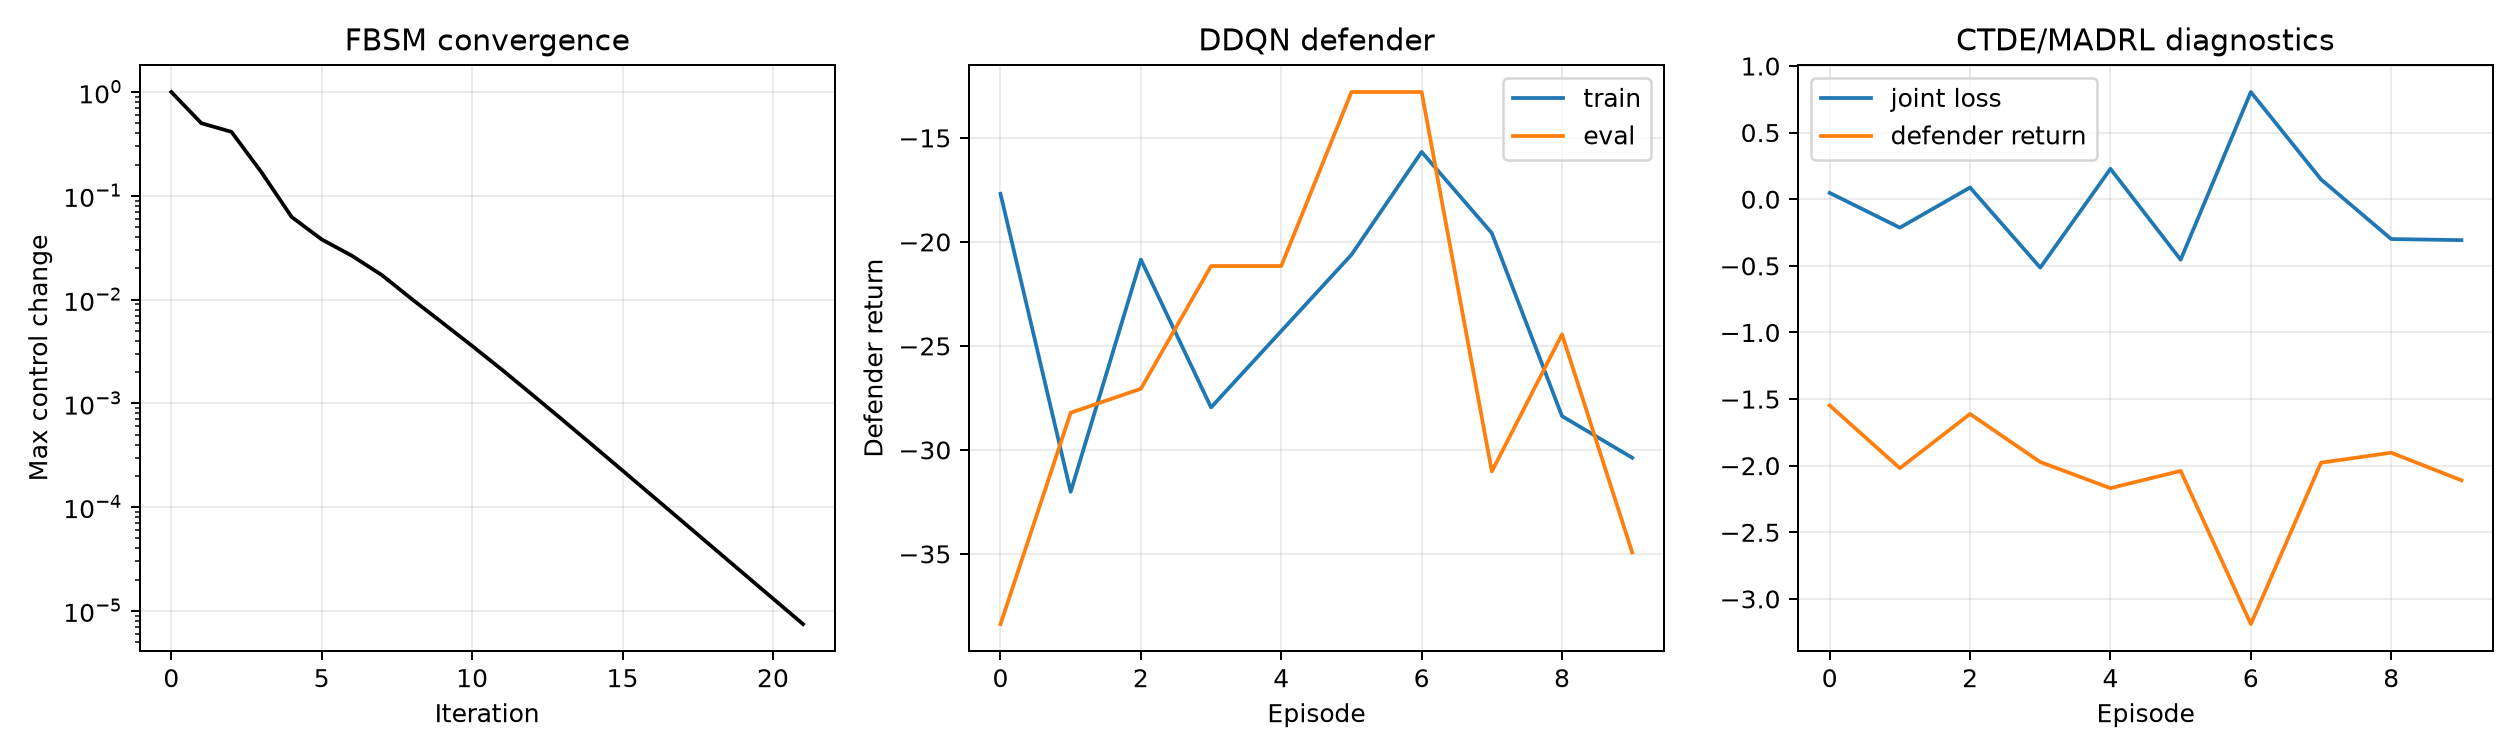
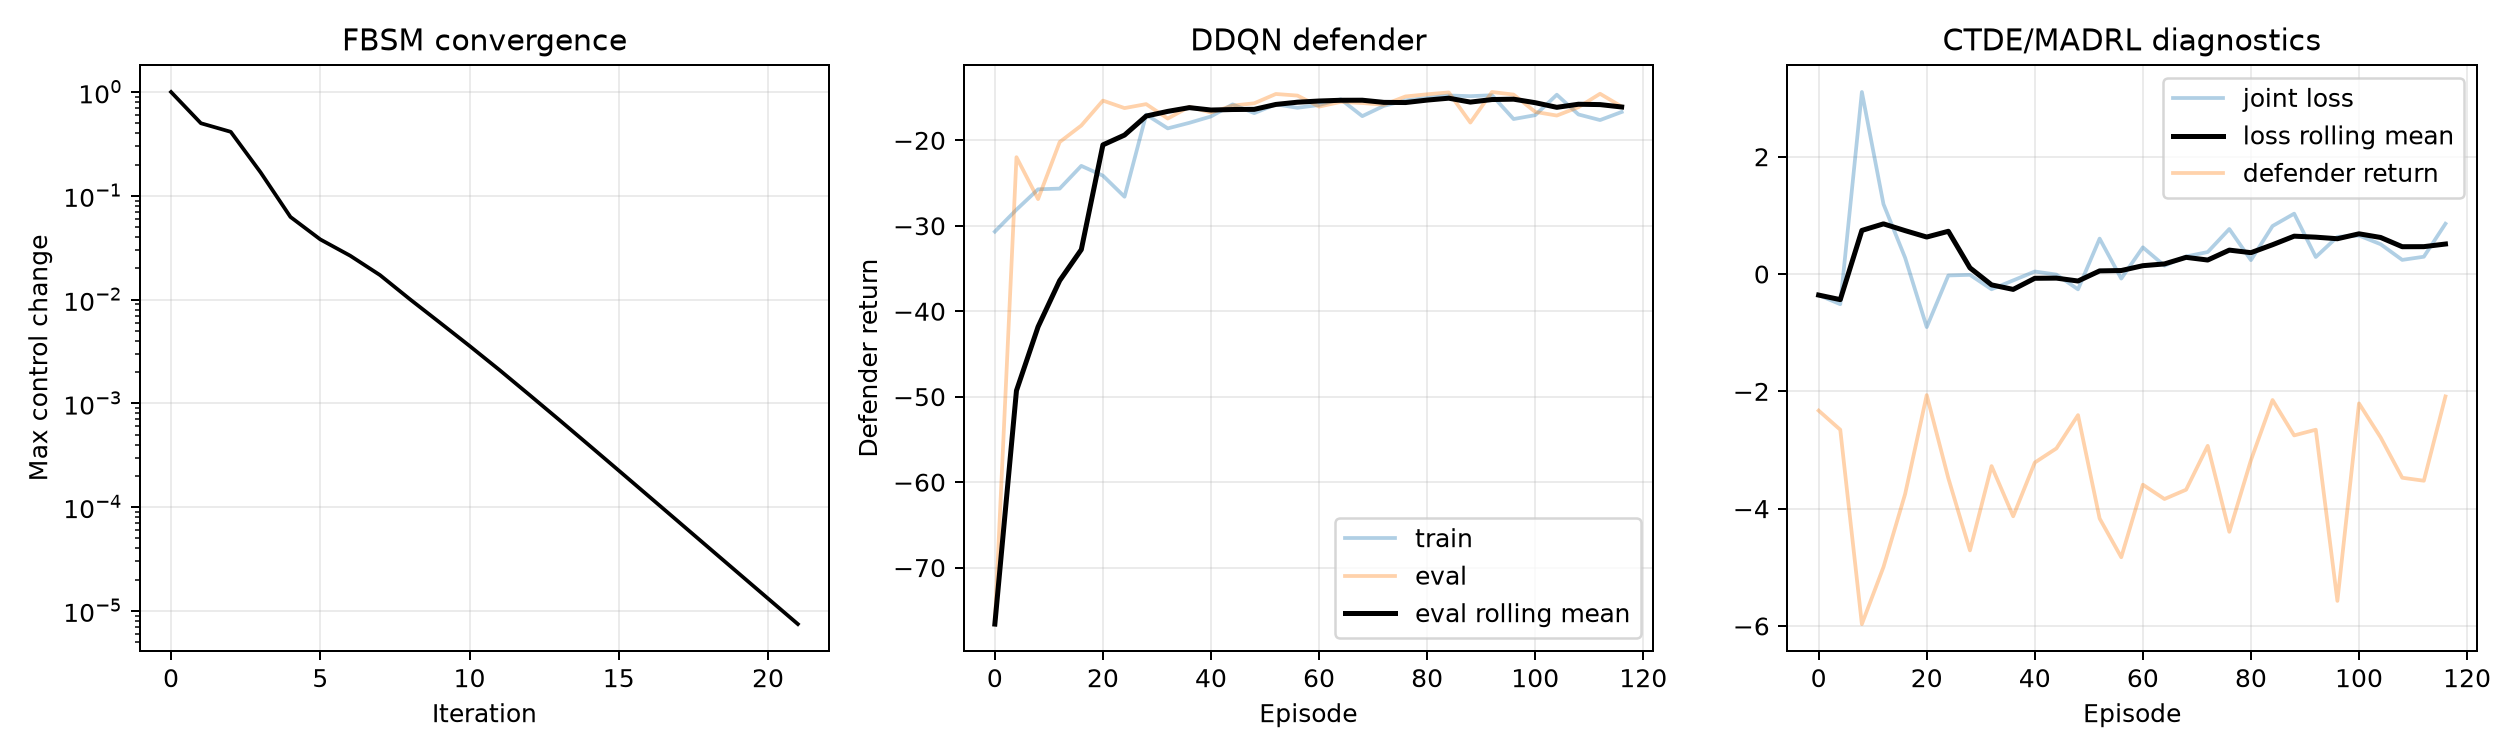
Improve Note 1 training convergence diagnostics

diff --git a/scripts/run_training_iterations.py b/scripts/run_training_iterations.py
@@ -2,6 +2,7 @@ from __future__ import annotations
 
 import argparse
 import csv
+import math
 from pathlib import Path
 import sys
 from types import SimpleNamespace
@@ -23,7 +24,7 @@ def write_csv(path: Path, rows: list[dict]) -> None:
     if not rows:
         return
     with path.open("w", newline="") as f:
-        writer = csv.DictWriter(f, fieldnames=list(rows[0].keys()))
+        writer = csv.DictWriter(f, fieldnames=list(rows[0].keys()), lineterminator="\n")
         writer.writeheader()
         writer.writerows(rows)
 
@@ -35,18 +36,21 @@ def run_fbsm() -> list[dict]:
 
 def run_ddqn(episodes: int) -> list[dict]:
     args = SimpleNamespace(
-        smoke=True,
+        smoke=False,
         episodes=episodes,
-        batch_size=8,
-        hidden=48,
+        horizon=24,
+        eval_horizon=24,
+        eval_episodes=4,
+        batch_size=32,
+        hidden=64,
         lr=1e-3,
         gamma=0.99,
-        buffer_size=5000,
-        target_update=20,
+        buffer_size=10000,
+        target_update=80,
         eps_start=1.0,
-        eps_end=0.10,
-        eps_decay=250.0,
-        log_every=1,
+        eps_end=0.05,
+        eps_decay=500.0,
+        log_every=max(1, episodes // 30),
         seed=11,
         return_history=True,
     )
@@ -56,18 +60,48 @@ def run_ddqn(episodes: int) -> list[dict]:
 
 def run_madrl(episodes: int) -> list[dict]:
     args = SimpleNamespace(
-        smoke=True,
+        smoke=False,
         episodes=episodes,
+        horizon=18,
         hidden=48,
         lr=5e-4,
         gamma=0.97,
         entropy_coef=0.02,
-        log_every=1,
+        log_every=max(1, episodes // 30),
         seed=13,
         return_history=True,
     )
     _, _, history = train_madrl(args)
     return history
+
+
+def rolling_mean(values: list[float], window: int = 5) -> list[float]:
+    out = []
+    for idx in range(len(values)):
+        start = max(0, idx - window + 1)
+        chunk = values[start:idx + 1]
+        finite = [x for x in chunk if not math.isnan(x)]
+        out.append(sum(finite) / len(finite) if finite else float("nan"))
+    return out
+
+
+def write_summary(path: Path, fbsm: list[dict], ddqn: list[dict], madrl: list[dict]) -> None:
+    fbsm_ratio = fbsm[-1]["max_control_change"] / max(fbsm[0]["max_control_change"], 1e-12)
+    ddqn_eval = [r["evaluation_return"] for r in ddqn]
+    madrl_loss = [r["loss"] for r in madrl]
+    text = f"""# Training Summary
+
+These runs are intentionally small enough for a laptop, but long enough to show the main convergence or stabilization signals.
+
+| Diagnostic | Start | End | Interpretation |
+|---|---:|---:|---|
+| FBSM max control change | {fbsm[0]["max_control_change"]:.3e} | {fbsm[-1]["max_control_change"]:.3e} | Control updates shrink to {fbsm_ratio:.3e} of the initial change. |
+| DDQN evaluation return | {ddqn_eval[0]:.3f} | {ddqn_eval[-1]:.3f} | Stochastic policy learning is noisy, so inspect the rolling trend rather than one episode. |
+| MADRL joint loss | {madrl_loss[0]:.3f} | {madrl_loss[-1]:.3f} | Compact CTDE runs are stability diagnostics, not equilibrium proofs. |
+
+For longer research runs, increase `--episodes`, run multiple seeds, and compare against no-defense and rule-based baselines.
+"""
+    path.write_text(text)
 
 
 def plot_training_diagnostics(output_path: Path, fbsm: list[dict], ddqn: list[dict], madrl: list[dict]) -> None:
@@ -79,16 +113,24 @@ def plot_training_diagnostics(output_path: Path, fbsm: list[dict], ddqn: list[di
     axes[0].set_ylabel("Max control change")
     axes[0].grid(alpha=0.25)
 
-    axes[1].plot([r["episode"] for r in ddqn], [r["training_return"] for r in ddqn], label="train")
-    axes[1].plot([r["episode"] for r in ddqn], [r["evaluation_return"] for r in ddqn], label="eval")
+    ddqn_episode = [r["episode"] for r in ddqn]
+    ddqn_train = [r["training_return"] for r in ddqn]
+    ddqn_eval = [r["evaluation_return"] for r in ddqn]
+    axes[1].plot(ddqn_episode, ddqn_train, alpha=0.35, label="train")
+    axes[1].plot(ddqn_episode, ddqn_eval, alpha=0.35, label="eval")
+    axes[1].plot(ddqn_episode, rolling_mean(ddqn_eval, window=5), color="black", linewidth=2, label="eval rolling mean")
     axes[1].set_title("DDQN defender")
     axes[1].set_xlabel("Episode")
     axes[1].set_ylabel("Defender return")
     axes[1].grid(alpha=0.25)
     axes[1].legend()
 
-    axes[2].plot([r["episode"] for r in madrl], [r["loss"] for r in madrl], label="joint loss")
-    axes[2].plot([r["episode"] for r in madrl], [r["defender_return"] for r in madrl], label="defender return")
+    madrl_episode = [r["episode"] for r in madrl]
+    madrl_loss = [r["loss"] for r in madrl]
+    madrl_def = [r["defender_return"] for r in madrl]
+    axes[2].plot(madrl_episode, madrl_loss, alpha=0.35, label="joint loss")
+    axes[2].plot(madrl_episode, rolling_mean(madrl_loss, window=5), color="black", linewidth=2, label="loss rolling mean")
+    axes[2].plot(madrl_episode, madrl_def, alpha=0.35, label="defender return")
     axes[2].set_title("CTDE/MADRL diagnostics")
     axes[2].set_xlabel("Episode")
     axes[2].grid(alpha=0.25)
@@ -101,8 +143,8 @@ def plot_training_diagnostics(output_path: Path, fbsm: list[dict], ddqn: list[di
 
 
 def main() -> None:
-    parser = argparse.ArgumentParser(description="Run short training-iteration experiments for Note 1.")
-    parser.add_argument("--episodes", type=int, default=14, help="Small episode count for DDQN and MADRL diagnostics.")
+    parser = argparse.ArgumentParser(description="Run training-iteration experiments for Note 1.")
+    parser.add_argument("--episodes", type=int, default=120, help="Episode count for DDQN and MADRL diagnostics.")
     args = parser.parse_args()
 
     exp_dir = ROOT / "experiments"
@@ -114,6 +156,7 @@ def main() -> None:
     write_csv(exp_dir / "fbsm_iteration_history.csv", fbsm)
     write_csv(exp_dir / "ddqn_training_history.csv", ddqn)
     write_csv(exp_dir / "madrl_training_history.csv", madrl)
+    write_summary(exp_dir / "training_summary.md", fbsm, ddqn, madrl)
     plot_training_diagnostics(fig_dir / "training_iteration_diagnostics.png", fbsm, ddqn, madrl)
 
     print(f"Wrote experiment CSV files to {exp_dir}")

diff --git a/src/ddqn_cyber_defense.py b/src/ddqn_cyber_defense.py
@@ -80,6 +80,8 @@ def train(args):
     env = HybridCyberDefenseEnv(seed=args.seed)
     if args.smoke:
         env.cfg.horizon = 10
+    if hasattr(args, "horizon") and args.horizon is not None:
+        env.cfg.horizon = args.horizon
     q = MLP(env.obs_dim, env.n_defender_actions, hidden=args.hidden)
     target = MLP(env.obs_dim, env.n_defender_actions, hidden=args.hidden)
     target.load_state_dict(q.state_dict())
@@ -122,7 +124,10 @@ def train(args):
             if done:
                 break
         if ep % args.log_every == 0:
-            val = evaluate(q, episodes=2, horizon=10 if args.smoke else None)
+            eval_horizon = getattr(args, "eval_horizon", None)
+            if eval_horizon is None and args.smoke:
+                eval_horizon = 10
+            val = evaluate(q, episodes=getattr(args, "eval_episodes", 2), horizon=eval_horizon)
             print(f"ep={ep:04d}, return={ep_return:8.2f}, eval={val:8.2f}, eps={eps:.3f}")
             history.append({
                 "episode": ep,

diff --git a/src/madrl_ctde_hybrid_game.py b/src/madrl_ctde_hybrid_game.py
@@ -97,6 +97,8 @@ def train(args):
     env = HybridCyberDefenseEnv(seed=args.seed)
     if args.smoke:
         env.cfg.horizon = 10
+    if hasattr(args, "horizon") and args.horizon is not None:
+        env.cfg.horizon = args.horizon
     defender = Actor(env.obs_dim, env.n_defender_actions, args.hidden).to(DEVICE)
     attacker = Actor(env.obs_dim, env.n_attacker_actions, args.hidden).to(DEVICE)
     critic_d = CentralCritic(env.obs_dim, env.n_defender_actions, env.n_attacker_actions, args.hidden).to(DEVICE)

diff --git a/README.md b/README.md
@@ -9,6 +9,7 @@ The examples are intentionally small and readable.  They are meant for study, mo
 | Path | Purpose |
 |---|---|
 | `docs/note1_game_learning_cyber_control.pdf` | Main lecture note for game learning and cyber control. |
+| `docs/README.md` | Reading path and lecture-structure guide. |
 | `docs/implementation_companion.pdf` | Companion explanation for implementation choices. |
 | `docs/code_run_guide.pdf` | General run guide from the original bundle. |
 | `src/cyber_dynamics.py` | Shared RK4 integration and malware dynamics utilities. |
@@ -17,7 +18,7 @@ The examples are intentionally small and readable.  They are meant for study, mo
 | `src/ddqn_cyber_defense.py` | DDQN defender for a sampled-data ODE cyber-defense MDP. |
 | `src/madrl_ctde_hybrid_game.py` | Minimal CTDE/MADRL attacker-defender game example. |
 | `scripts/generate_figures.py` | Generates explanatory figures in `figures/`. |
-| `scripts/run_training_iterations.py` | Runs short training diagnostics and writes CSV histories in `experiments/`. |
+| `scripts/run_training_iterations.py` | Runs longer teaching diagnostics and writes CSV histories in `experiments/`. |
 | `scripts/run_smoke_tests.sh` | Runs all fast checks for this repo. |
 | `.github/workflows/smoke-tests.yml` | GitHub Actions workflow for dependency install, smoke tests, and figure generation. |
 | `experiments/` | Small training-iteration CSV outputs and an explanation of each metric. |
@@ -44,7 +45,7 @@ Generate the figures used in this README:
 python scripts/generate_figures.py
 ```
 
-Run short training-iteration diagnostics:
+Run longer training-iteration diagnostics:
 
 ```bash
 python scripts/run_training_iterations.py
@@ -78,13 +79,16 @@ This repo separates three levels that are easy to blur:
 
 ## Training Diagnostics
 
-`scripts/run_training_iterations.py` writes three small experiment tables:
+`scripts/run_training_iterations.py` writes three experiment tables and a summary:
 
 | CSV | What to inspect |
 |---|---|
 | `experiments/fbsm_iteration_history.csv` | Whether the control update stabilizes as `max_control_change` falls. |
 | `experiments/ddqn_training_history.csv` | Whether evaluation return improves while epsilon decays. |
 | `experiments/madrl_training_history.csv` | Whether the CTDE loss, entropy, and defender/attacker returns stay numerically stable. |
+| `experiments/training_summary.md` | First-versus-last diagnostic values and interpretation. |
+
+The default run is intentionally longer than smoke mode.  FBSM should show clear numerical convergence.  DDQN should be read through the rolling evaluation trend.  CTDE/MADRL is included as a stability diagnostic because short stochastic game training is not an equilibrium proof.
 
 The combined plot is:
 
@@ -94,6 +98,6 @@ The combined plot is:
 
 The repo includes smoke tests for every executable script and unit tests for the core numerical contracts.  It also has a GitHub Actions workflow that installs dependencies, runs smoke tests, and regenerates figures on push or pull request.
 
-This consolidated version merges the duplicate Note 1 materials into one final repo: it keeps the PDFs/source materials, generated figures, tests, CI workflow, and short training diagnostics in the same place.
+This consolidated version keeps the Note 1 PDFs, source materials, generated figures, tests, CI workflow, and longer teaching diagnostics in one final repo.
 
 These examples are teaching code, not benchmark implementations.  For serious experiments, add multiple seeds, stronger baselines, full logging, and exploitability-style game diagnostics.

diff --git a/docs/README.md b/docs/README.md
@@ -1,0 +1,24 @@
+# Note 1 Reading Path
+
+Start with `note1_game_learning_cyber_control.pdf`.  It explains how continuous-time cyber-control models become reinforcement-learning and multi-agent reinforcement-learning experiments.
+
+Recommended order:
+
+1. Read the modeling setup: cyber state variables, ODE flow, jump maps, and hybrid actions.
+2. Read the PMP/FBSM sections to understand the continuous-control baseline.
+3. Move to the sampled-data RL sections, where continuous dynamics become an MDP.
+4. Read the DDQN section before the CTDE/MADRL section.
+5. Use `implementation_companion.pdf` when mapping equations to code.
+6. Use `code_run_guide.pdf` for run commands and troubleshooting.
+
+Source files are in `latex/`.  The source is included for inspection and adaptation; the checked-in PDF is the version intended for reading.
+
+The runnable code mirrors this lecture order:
+
+| Lecture idea | Code |
+|---|---|
+| Shared dynamics and RK4 integration | `src/cyber_dynamics.py` |
+| Hybrid ODE-RL environment | `src/cyber_hybrid_env.py` |
+| PMP/FBSM baseline | `src/fbsm_malware_baseline.py` |
+| DDQN sampled-data defender | `src/ddqn_cyber_defense.py` |
+| CTDE/MADRL attacker-defender game | `src/madrl_ctde_hybrid_game.py` |

diff --git a/experiments/README.md b/experiments/README.md
@@ -6,12 +6,15 @@ Run:
 python scripts/run_training_iterations.py
 ```
 
-The script performs short, CPU-friendly runs and writes:
+The script performs longer, CPU-friendly teaching runs and writes:
 
 | File | Meaning |
 |---|---|
 | `fbsm_iteration_history.csv` | FBSM control-change, objective, peak compromised share, and mean control by sweep iteration. |
 | `ddqn_training_history.csv` | DDQN training return, evaluation return, epsilon, replay size, and last TD loss by episode. |
 | `madrl_training_history.csv` | CTDE/MADRL rollout length, defender/attacker return, joint loss, critic loss, and entropy by episode. |
+| `training_summary.md` | First-versus-last diagnostic values and interpretation. |
 
 The companion plot is saved as `figures/training_iteration_diagnostics.png`.
+
+FBSM should show the clearest convergence. DDQN is stochastic, so inspect the rolling evaluation-return curve rather than one episode. CTDE/MADRL is a compact stability diagnostic, not a claim of Nash convergence.

diff --git a/experiments/training_summary.md b/experiments/training_summary.md
@@ -1,0 +1,11 @@
+# Training Summary
+
+These runs are intentionally small enough for a laptop, but long enough to show the main convergence or stabilization signals.
+
+| Diagnostic | Start | End | Interpretation |
+|---|---:|---:|---|
+| FBSM max control change | 1.000e+00 | 7.446e-06 | Control updates shrink to 7.446e-06 of the initial change. |
+| DDQN evaluation return | -76.608 | -16.052 | Stochastic policy learning is noisy, so inspect the rolling trend rather than one episode. |
+| MADRL joint loss | -0.359 | 0.857 | Compact CTDE runs are stability diagnostics, not equilibrium proofs. |
+
+For longer research runs, increase `--episodes`, run multiple seeds, and compare against no-defense and rule-based baselines.
